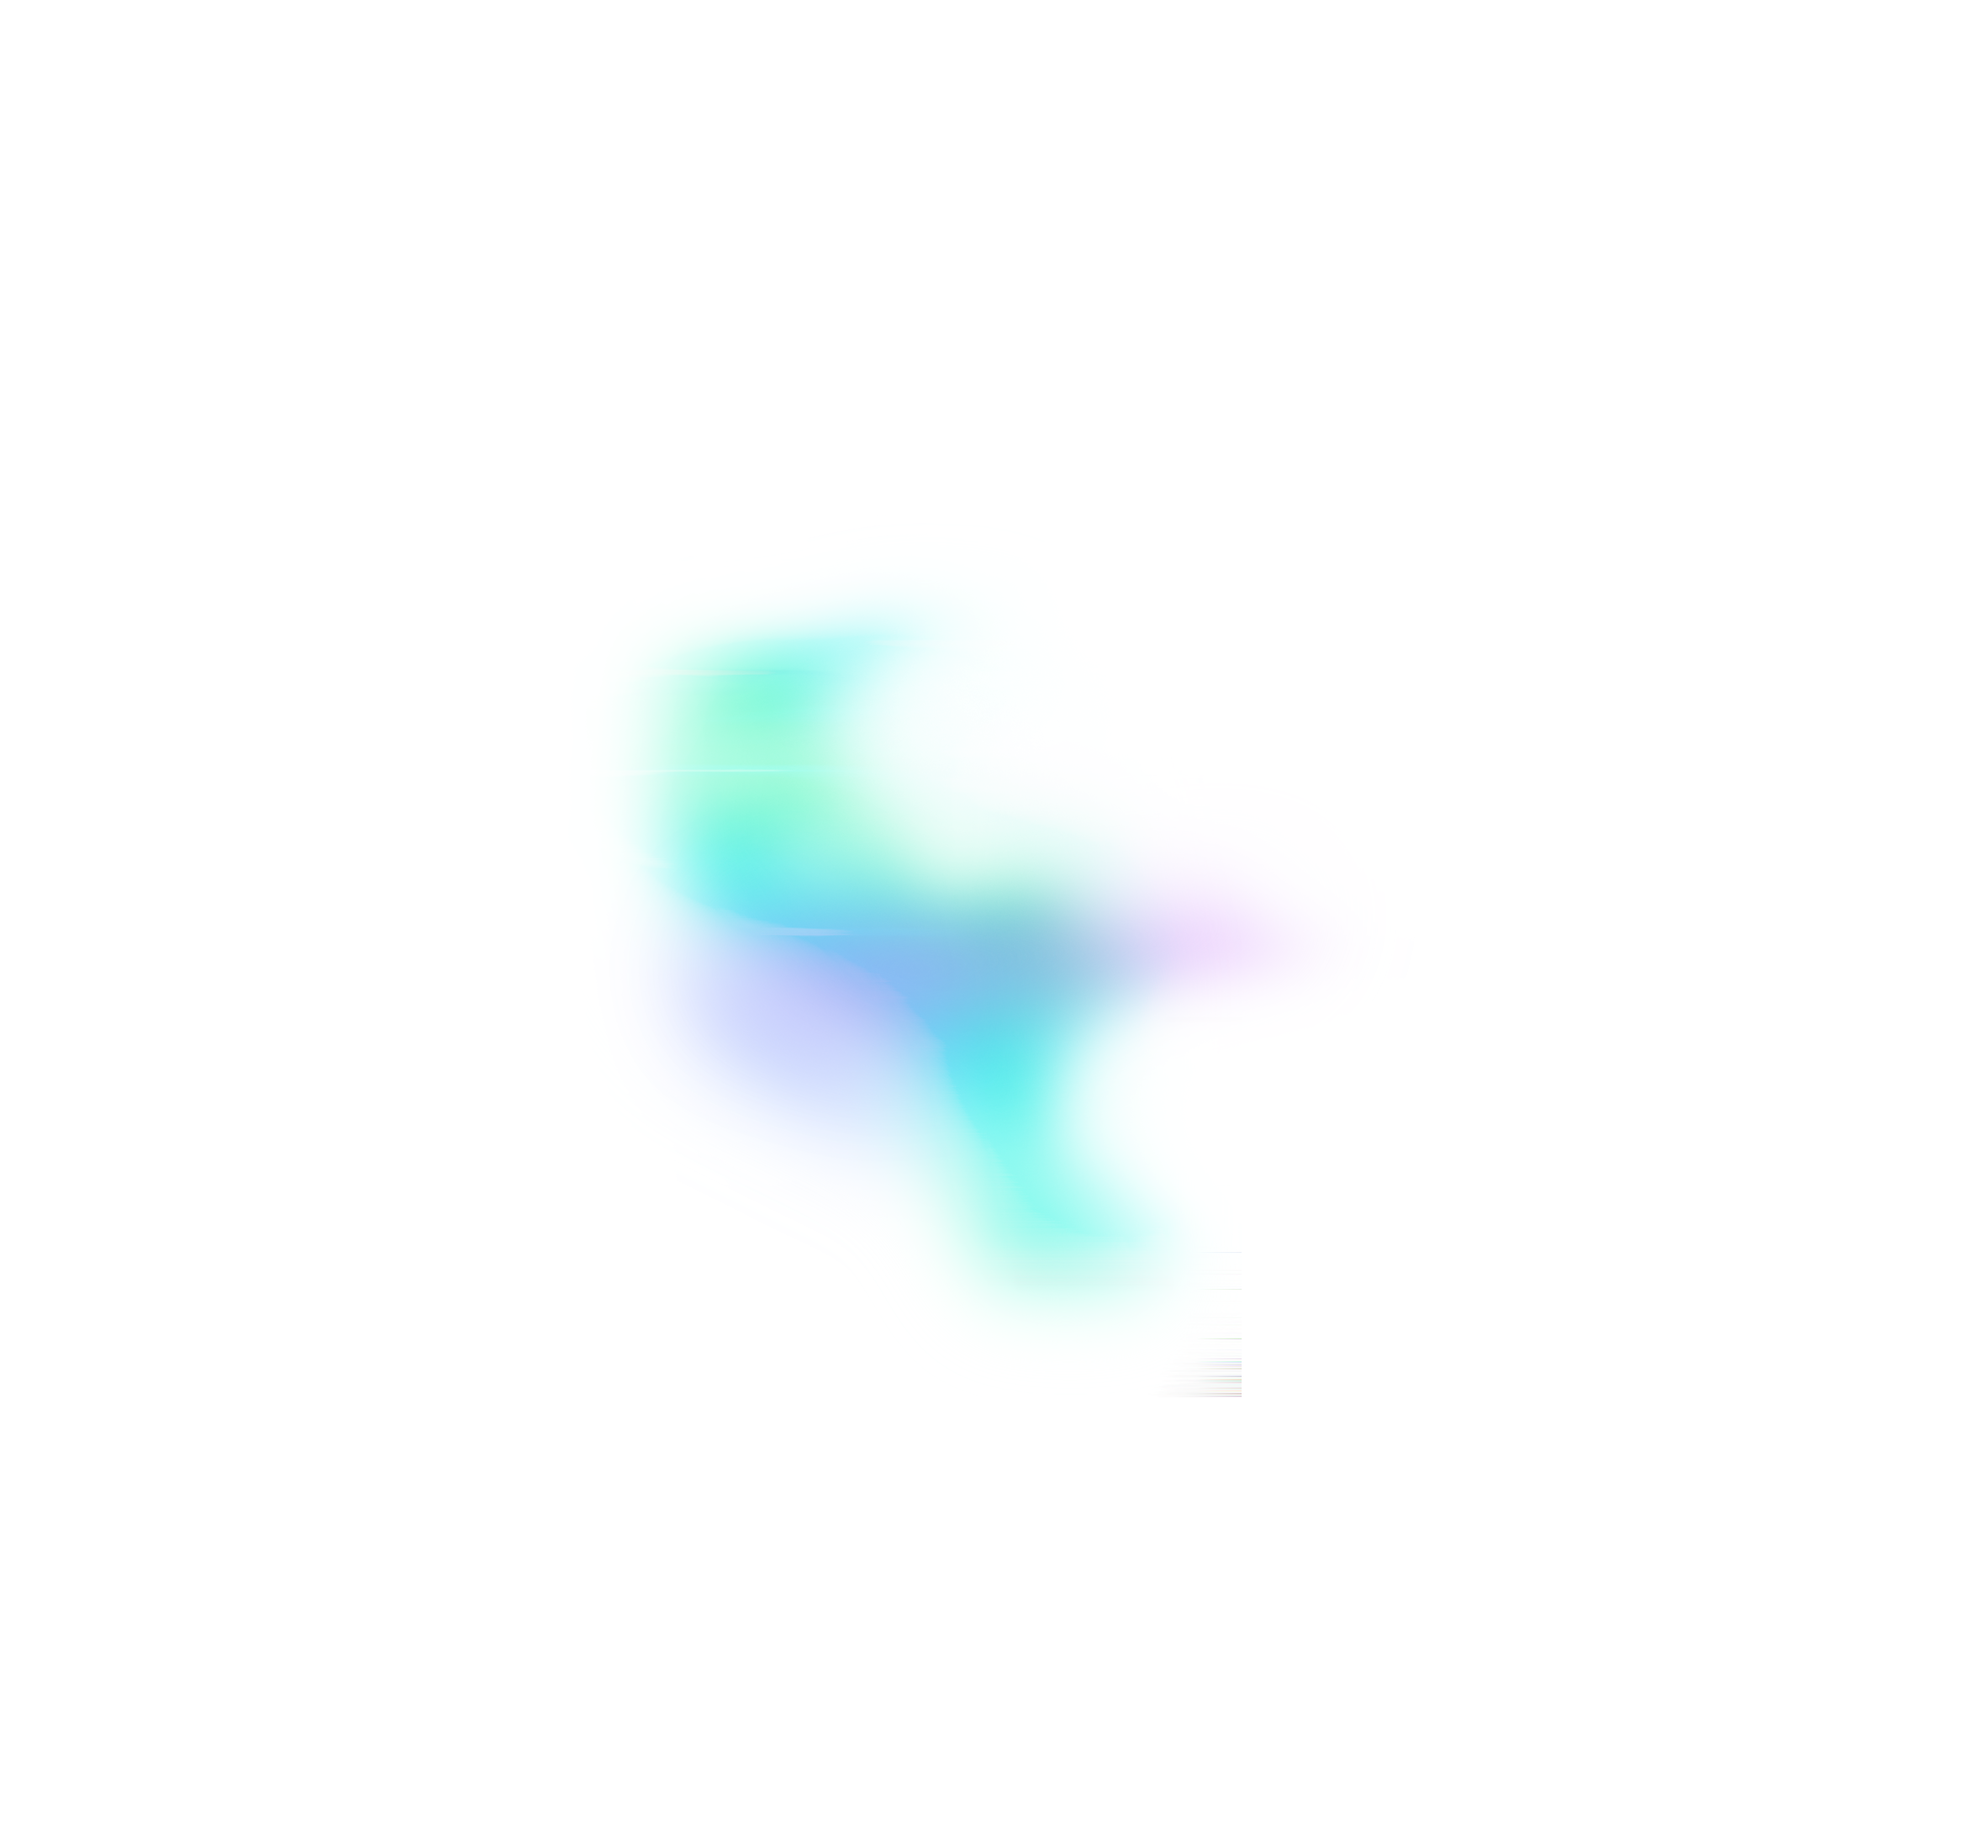
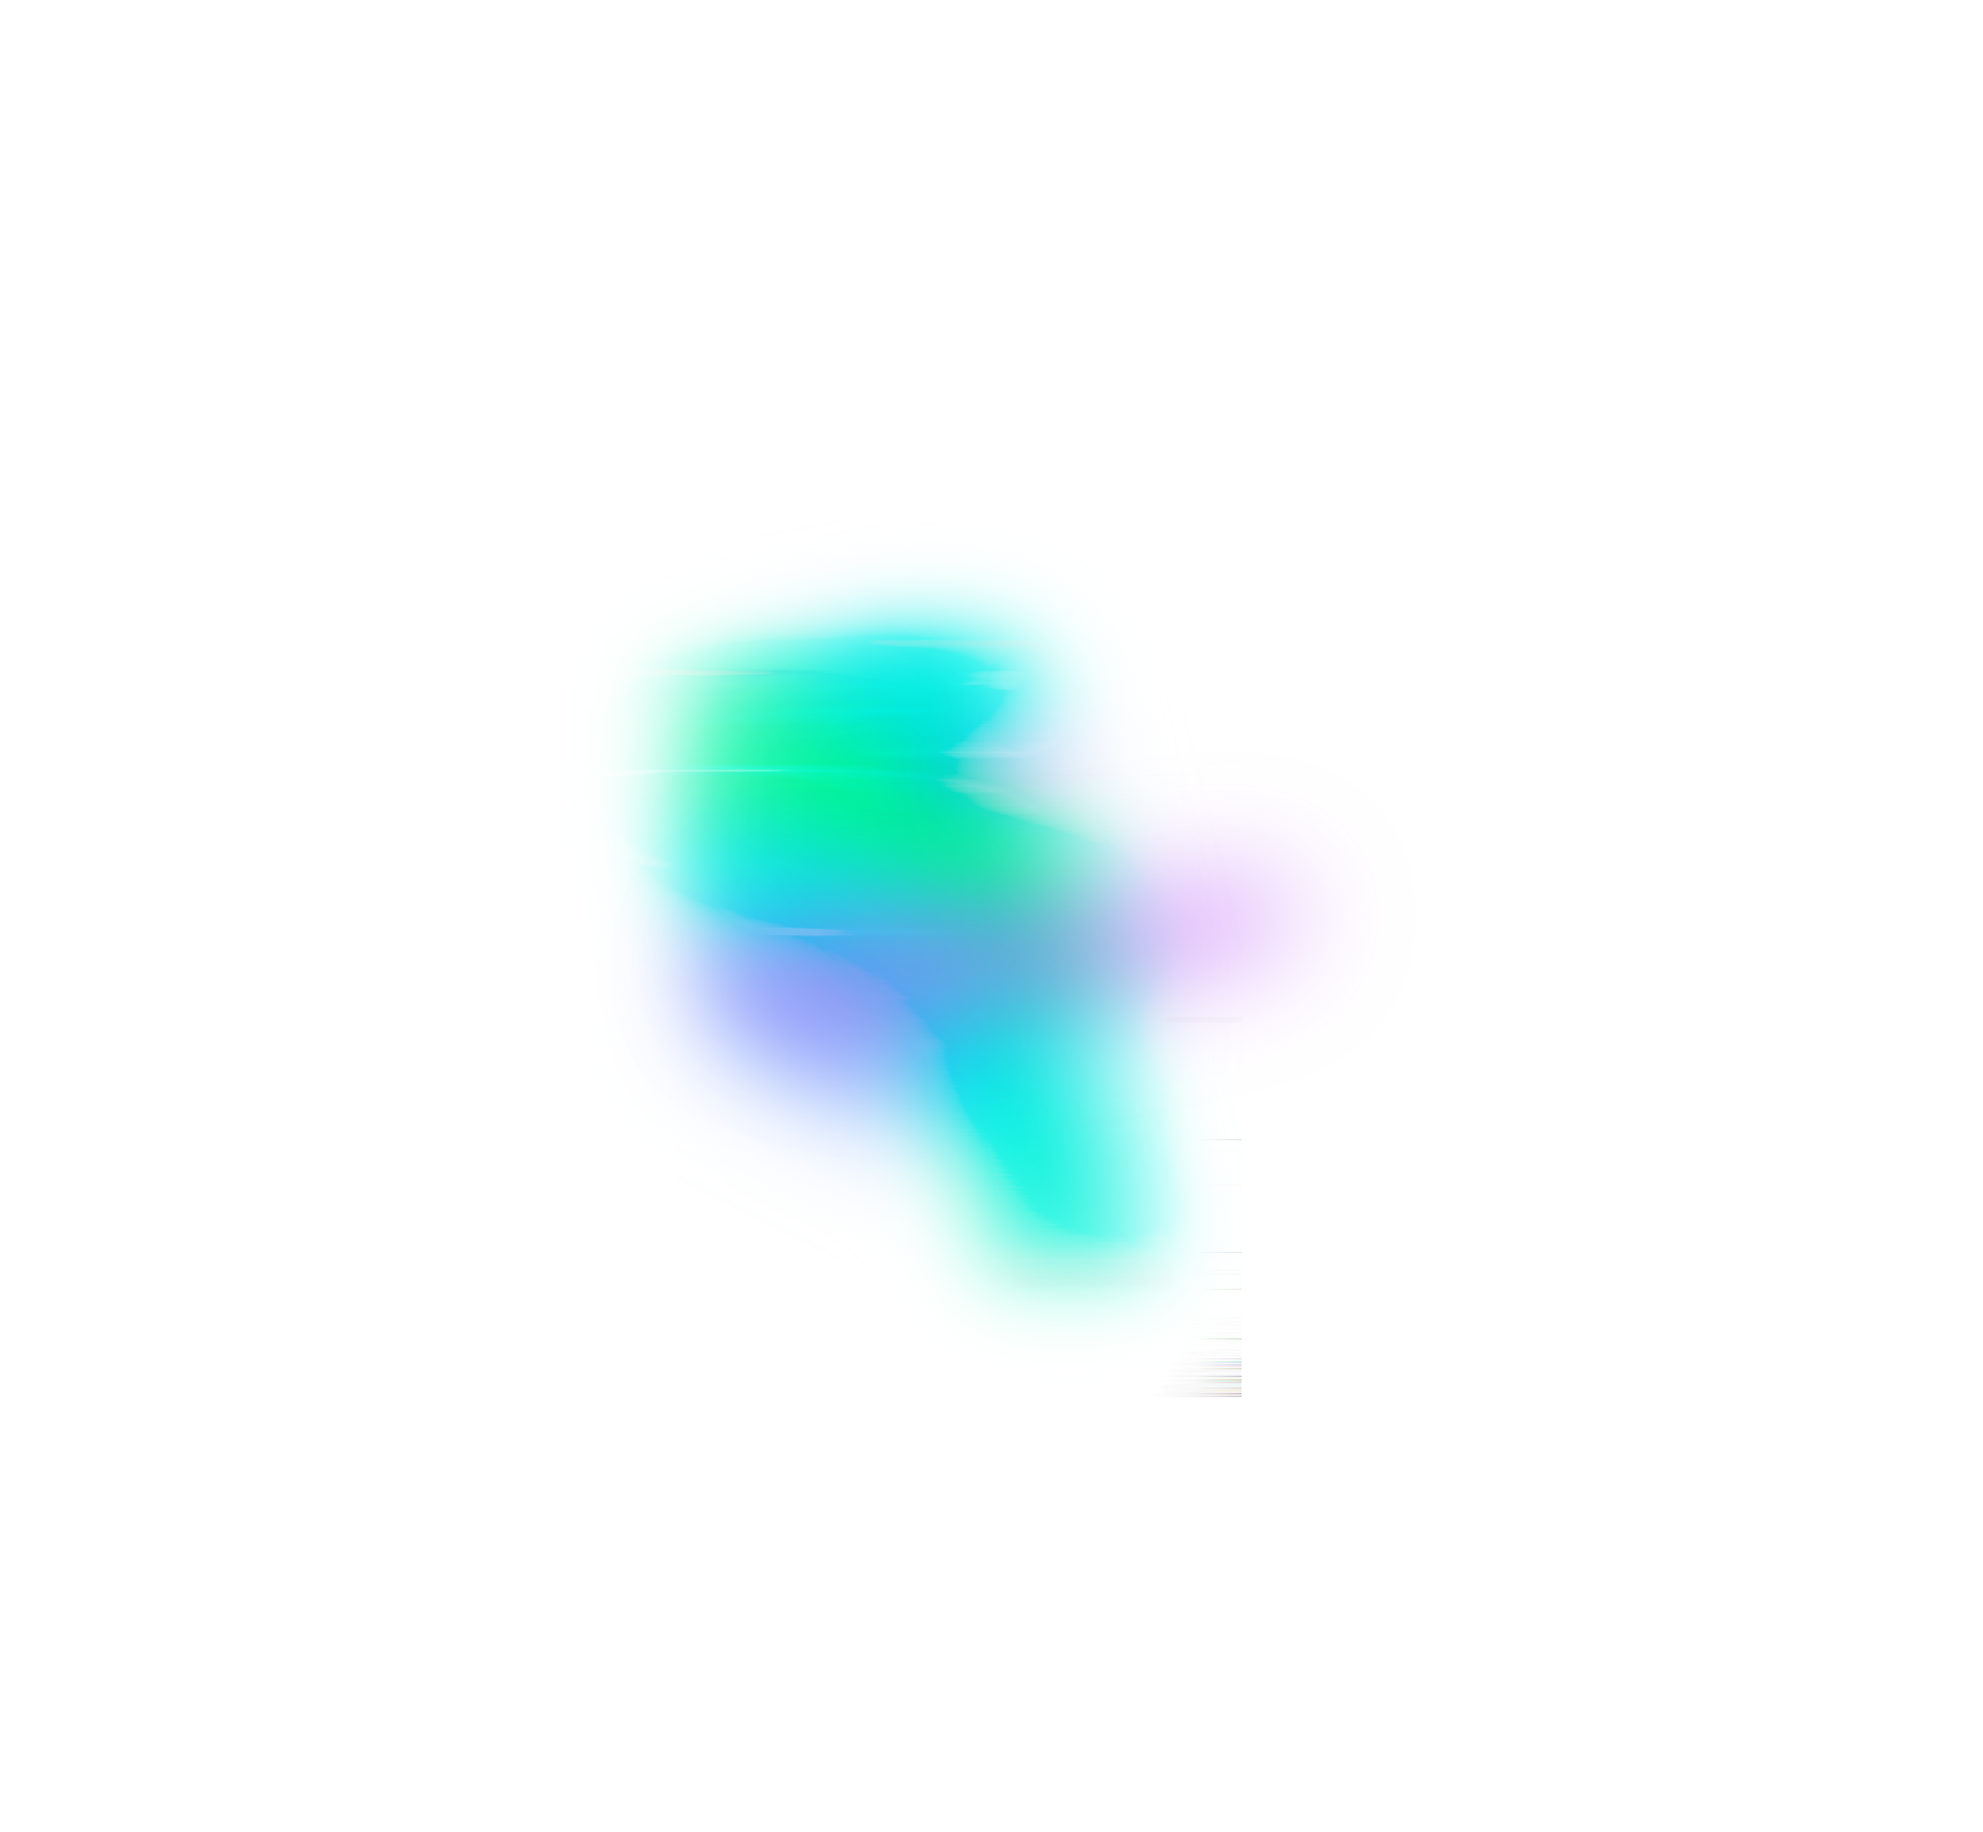
remove image contact

Changed region(s): [[0.312, 0.3105, 0.624, 0.7142]]

diff --git a/src/app/contact/page.tsx b/src/app/contact/page.tsx
@@ -1,4 +1,3 @@
-import Image from "next/image";
 import BackHomeLink from "../components/BackHomeLink";
 import PageMain from "../components/PageMain";
 
@@ -8,14 +7,7 @@ export default function ContactPage() {
 			<BackHomeLink />
 			<PageMain>
 				<section className="relative max-w-4xl font-light">
-					<Image
-						src="/hummingbird.png"
-						alt=""
-						width={900}
-						height={1200}
-						aria-hidden="true"
-						className="absolute -top-10 -left-10 z-0 w-[280px] h-auto object-contain opacity-40 pointer-events-none origin-top-left md:w-[500px]"
-					/>
+					
 					<div className="relative z-10 max-w-2xl">
 					<h1 className="text-3xl font-bold mb-4">Contact</h1>
 					<p className="mb-4">
